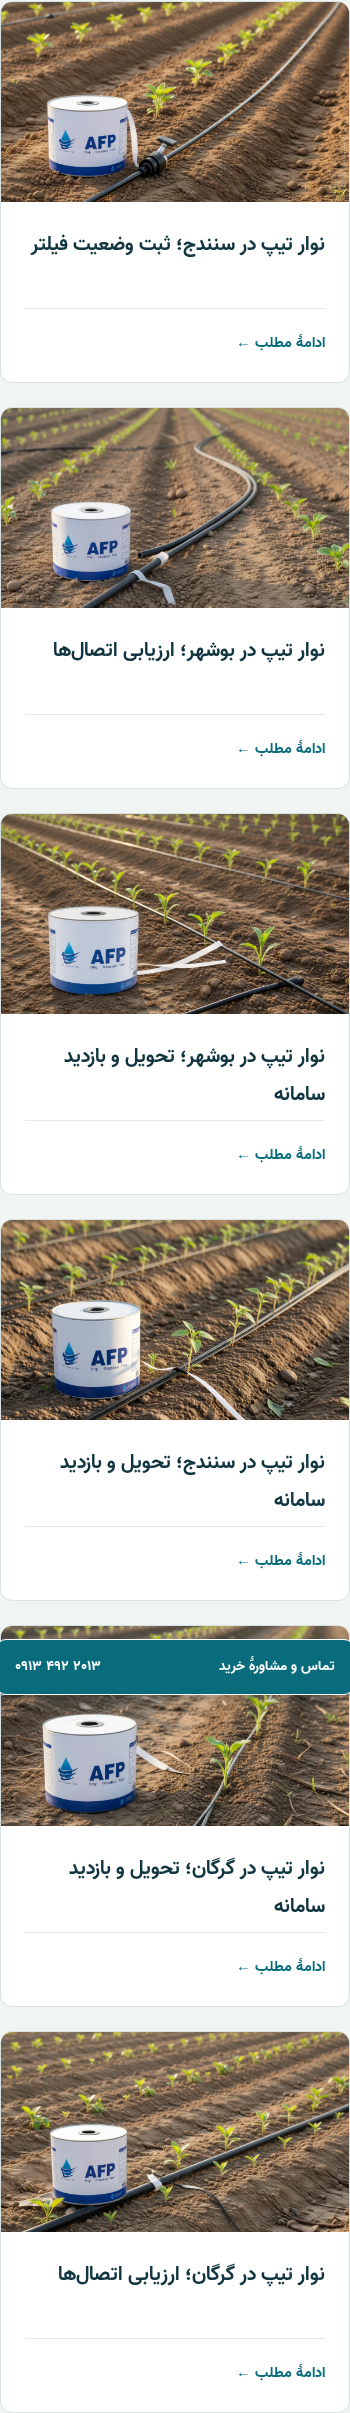
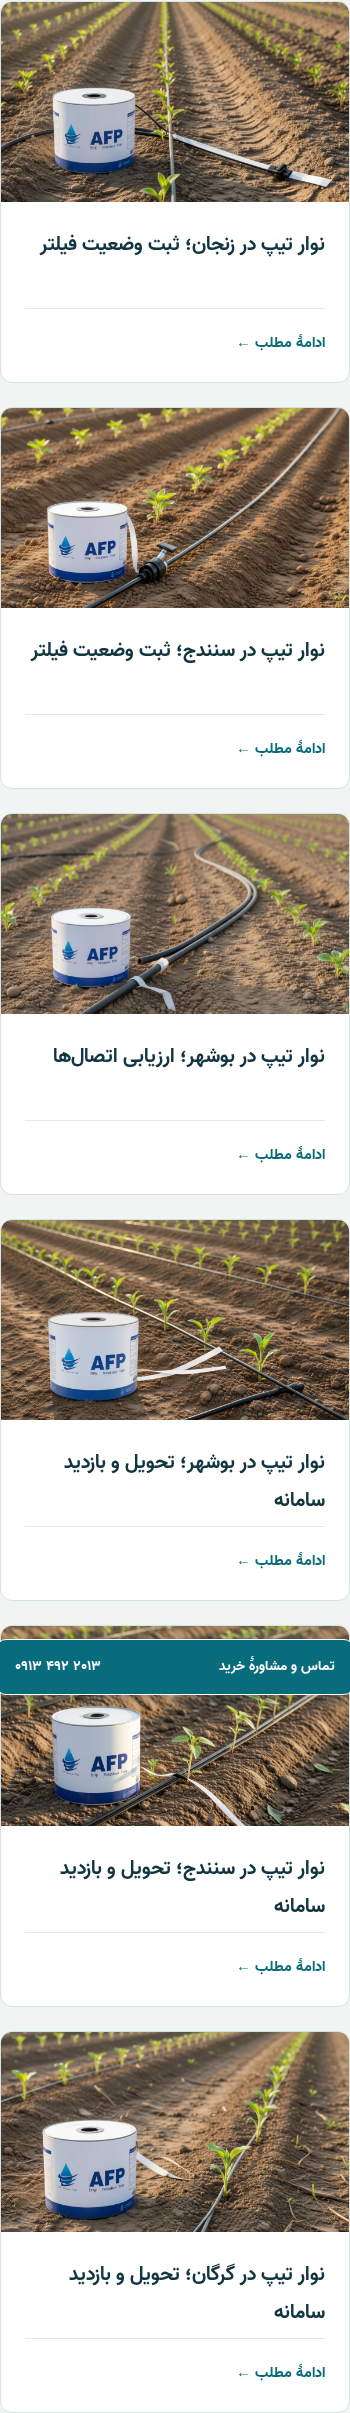
Checkpoint verified Blogsky native outcome [skip ci]

diff --git a/artifacts/blogsky-backlink-queue/home-card-images/before.html b/artifacts/blogsky-backlink-queue/home-card-images/before.html
@@ -27,12 +27,12 @@ body:has(#afp-home) .sidebar>.menu:has(>.head>a[href="/posts"]) a:focus-visible{
 @media(max-width:760px){body:has(#afp-home) .sidebar>.menu:has(>.head>a[href="/posts"])>ul{width:calc(100% - 40px)}#afp-home #guides{padding-top:40px}}
 @media(max-width:650px){body:has(#afp-home) .sidebar>.menu:has(>.head>a[href="/posts"])>ul{grid-template-columns:minmax(0,1fr)}#afp-home .afp-journal-heading{align-items:flex-start;flex-direction:column;gap:12px}}
 /*]]>*//* AFP_LIVE_CARD_IMAGES_START */
+body:has(#afp-home) .sidebar>.menu:has(>.head>a[href="/posts"])>ul>li>a[href="/1405/08/06/post-42/navaar-tip-dar-sanandaj-tasadig-vaziyat-e-filter"]::before{background-image:url("https://raw.githubusercontent.com/getsalet/nono/84841ba2c68beb1b2f5f51b834d69fff4185511a/assets/blog-generated/blogsky/9a10692049541bc48673e160fc9a54ff.webp");background-size:cover;background-position:center}
 body:has(#afp-home) .sidebar>.menu:has(>.head>a[href="/posts"])>ul>li>a[href="/1405/08/06/post-41/bushehr-tape-connection-evaluation"]::before{background-image:url("https://raw.githubusercontent.com/getsalet/nono/d1706fcaf109af8443d8d51408a4bbef43d050e5/assets/blog-generated/blogsky/9c01d9dc37cdebe19fc33973d6aed164.webp");background-size:cover;background-position:center}
 body:has(#afp-home) .sidebar>.menu:has(>.head>a[href="/posts"])>ul>li>a[href="/1405/08/06/post-40/nvar-tip-busher-tahvil-bazdid-samane"]::before{background-image:url("https://raw.githubusercontent.com/getsalet/nono/6597f3f5ee7f605b35fd1fec5b9faf7be2df3103/assets/blog-generated/blogsky/76164b1a4b78bc08260369ac6bca22b8.webp");background-size:cover;background-position:center}
 body:has(#afp-home) .sidebar>.menu:has(>.head>a[href="/posts"])>ul>li>a[href="/1405/08/06/post-39/tip-tape-sanandaj-delivery-inspection"]::before{background-image:url("https://raw.githubusercontent.com/getsalet/nono/769a0999ce8596975250f1bd0cef81a8ae191075/assets/blog-generated/blogsky/2e1d559fae64bd739f5456c57e3c8f56.webp");background-size:cover;background-position:center}
 body:has(#afp-home) .sidebar>.menu:has(>.head>a[href="/posts"])>ul>li>a[href="/1405/08/06/post-38/tip-tape-delivery-inspection-gorgan"]::before{background-image:url("https://raw.githubusercontent.com/getsalet/nono/0c3a69f4ee7b0c8d09cf55fe6a995278bdb202af/assets/blog-generated/blogsky/55debf6c4e1353abc682319f1c72db90.webp");background-size:cover;background-position:center}
 body:has(#afp-home) .sidebar>.menu:has(>.head>a[href="/posts"])>ul>li>a[href="/1405/08/06/post-37/navar-tip-dar-gorgan-arzabi-etalat-ha"]::before{background-image:url("https://raw.githubusercontent.com/getsalet/nono/91e7ea64b7b1b03619287f5c211a100f836f39e6/assets/blog-generated/blogsky/a63fa55df4b4595a589d1a3cf90d85c4.webp");background-size:cover;background-position:center}
-body:has(#afp-home) .sidebar>.menu:has(>.head>a[href="/posts"])>ul>li>a[href="/1405/08/06/post-36/barge-nezai-sanji-navar-tip-qazvin"]::before{background-image:url("https://raw.githubusercontent.com/getsalet/nono/8124a30d580cec3aade7f0d1839c6b081cd6eab5/assets/blog-generated/blogsky/6019ddad0e93c3d3b6bd4f63c961031d.webp");background-size:cover;background-position:center}
 /* AFP_LIVE_CARD_IMAGES_END */</style><div id="afp-home" lang="fa" dir="rtl">
 <div class="top"><div class="wrap"><span class="top-note">راهنمای کاربردی AFP · آبیاری و انتقال آب</span><a href="tel:+989134922013">مشاورهٔ انتخاب تجهیزات: ۰۹۱۳۴۹۲۲۰۱۳</a></div></div>
 <header><div class="wrap brandbar"><a class="brand" href="/"><img src="https://navar-abyari.ir/wp-content/uploads/نوار-تیپ-afp-drip-tape.png" alt="لوگوی AFP" width="52" height="52" /><span><strong>آبگستر فرا پارسیان</strong><small>انتخاب آگاهانه، آبیاری بهتر</small></span></a><a class="btn alt" href="https://navar-abyari.ir/shop/">فروشگاه AFP ←</a></div><div class="navline"><nav class="wrap" aria-label="فهرست اصلی"><a href="#products">تجهیزات آبیاری</a><a href="#guides">راهنماها و یادداشتها</a><a href="#faq">پرسشهای متداول</a><a href="#contact">تماس و مشاوره</a></nav></div></header>

diff --git a/artifacts/blogsky-backlink-queue/home-card-images/candidate.html b/artifacts/blogsky-backlink-queue/home-card-images/candidate.html
@@ -27,12 +27,12 @@ body:has(#afp-home) .sidebar>.menu:has(>.head>a[href="/posts"]) a:focus-visible{
 @media(max-width:760px){body:has(#afp-home) .sidebar>.menu:has(>.head>a[href="/posts"])>ul{width:calc(100% - 40px)}#afp-home #guides{padding-top:40px}}
 @media(max-width:650px){body:has(#afp-home) .sidebar>.menu:has(>.head>a[href="/posts"])>ul{grid-template-columns:minmax(0,1fr)}#afp-home .afp-journal-heading{align-items:flex-start;flex-direction:column;gap:12px}}
 /*]]>*//* AFP_LIVE_CARD_IMAGES_START */
+body:has(#afp-home) .sidebar>.menu:has(>.head>a[href="/posts"])>ul>li>a[href="/1405/08/06/post-43/navar-tip-zanjan-tasjihat-filter"]::before{background-image:url("https://raw.githubusercontent.com/getsalet/nono/00757acdd1b878ca505974a372b8eba267ec7bbb/assets/blog-generated/blogsky/d14a287de0438908b6fc435da94fdd49.webp");background-size:cover;background-position:center}
 body:has(#afp-home) .sidebar>.menu:has(>.head>a[href="/posts"])>ul>li>a[href="/1405/08/06/post-42/navaar-tip-dar-sanandaj-tasadig-vaziyat-e-filter"]::before{background-image:url("https://raw.githubusercontent.com/getsalet/nono/84841ba2c68beb1b2f5f51b834d69fff4185511a/assets/blog-generated/blogsky/9a10692049541bc48673e160fc9a54ff.webp");background-size:cover;background-position:center}
 body:has(#afp-home) .sidebar>.menu:has(>.head>a[href="/posts"])>ul>li>a[href="/1405/08/06/post-41/bushehr-tape-connection-evaluation"]::before{background-image:url("https://raw.githubusercontent.com/getsalet/nono/d1706fcaf109af8443d8d51408a4bbef43d050e5/assets/blog-generated/blogsky/9c01d9dc37cdebe19fc33973d6aed164.webp");background-size:cover;background-position:center}
 body:has(#afp-home) .sidebar>.menu:has(>.head>a[href="/posts"])>ul>li>a[href="/1405/08/06/post-40/nvar-tip-busher-tahvil-bazdid-samane"]::before{background-image:url("https://raw.githubusercontent.com/getsalet/nono/6597f3f5ee7f605b35fd1fec5b9faf7be2df3103/assets/blog-generated/blogsky/76164b1a4b78bc08260369ac6bca22b8.webp");background-size:cover;background-position:center}
 body:has(#afp-home) .sidebar>.menu:has(>.head>a[href="/posts"])>ul>li>a[href="/1405/08/06/post-39/tip-tape-sanandaj-delivery-inspection"]::before{background-image:url("https://raw.githubusercontent.com/getsalet/nono/769a0999ce8596975250f1bd0cef81a8ae191075/assets/blog-generated/blogsky/2e1d559fae64bd739f5456c57e3c8f56.webp");background-size:cover;background-position:center}
 body:has(#afp-home) .sidebar>.menu:has(>.head>a[href="/posts"])>ul>li>a[href="/1405/08/06/post-38/tip-tape-delivery-inspection-gorgan"]::before{background-image:url("https://raw.githubusercontent.com/getsalet/nono/0c3a69f4ee7b0c8d09cf55fe6a995278bdb202af/assets/blog-generated/blogsky/55debf6c4e1353abc682319f1c72db90.webp");background-size:cover;background-position:center}
-body:has(#afp-home) .sidebar>.menu:has(>.head>a[href="/posts"])>ul>li>a[href="/1405/08/06/post-37/navar-tip-dar-gorgan-arzabi-etalat-ha"]::before{background-image:url("https://raw.githubusercontent.com/getsalet/nono/91e7ea64b7b1b03619287f5c211a100f836f39e6/assets/blog-generated/blogsky/a63fa55df4b4595a589d1a3cf90d85c4.webp");background-size:cover;background-position:center}
 /* AFP_LIVE_CARD_IMAGES_END */</style><div id="afp-home" lang="fa" dir="rtl">
 <div class="top"><div class="wrap"><span class="top-note">راهنمای کاربردی AFP · آبیاری و انتقال آب</span><a href="tel:+989134922013">مشاورهٔ انتخاب تجهیزات: ۰۹۱۳۴۹۲۲۰۱۳</a></div></div>
 <header><div class="wrap brandbar"><a class="brand" href="/"><img src="https://navar-abyari.ir/wp-content/uploads/نوار-تیپ-afp-drip-tape.png" alt="لوگوی AFP" width="52" height="52" /><span><strong>آبگستر فرا پارسیان</strong><small>انتخاب آگاهانه، آبیاری بهتر</small></span></a><a class="btn alt" href="https://navar-abyari.ir/shop/">فروشگاه AFP ←</a></div><div class="navline"><nav class="wrap" aria-label="فهرست اصلی"><a href="#products">تجهیزات آبیاری</a><a href="#guides">راهنماها و یادداشتها</a><a href="#faq">پرسشهای متداول</a><a href="#contact">تماس و مشاوره</a></nav></div></header>

diff --git a/templates/blogsky/afp-home.html b/templates/blogsky/afp-home.html
@@ -27,12 +27,12 @@ body:has(#afp-home) .sidebar>.menu:has(>.head>a[href="/posts"]) a:focus-visible{
 @media(max-width:760px){body:has(#afp-home) .sidebar>.menu:has(>.head>a[href="/posts"])>ul{width:calc(100% - 40px)}#afp-home #guides{padding-top:40px}}
 @media(max-width:650px){body:has(#afp-home) .sidebar>.menu:has(>.head>a[href="/posts"])>ul{grid-template-columns:minmax(0,1fr)}#afp-home .afp-journal-heading{align-items:flex-start;flex-direction:column;gap:12px}}
 /* AFP_LIVE_CARD_IMAGES_START */
+body:has(#afp-home) .sidebar>.menu:has(>.head>a[href="/posts"])>ul>li>a[href="/1405/08/06/post-43/navar-tip-zanjan-tasjihat-filter"]::before{background-image:url("https://raw.githubusercontent.com/getsalet/nono/00757acdd1b878ca505974a372b8eba267ec7bbb/assets/blog-generated/blogsky/d14a287de0438908b6fc435da94fdd49.webp");background-size:cover;background-position:center}
 body:has(#afp-home) .sidebar>.menu:has(>.head>a[href="/posts"])>ul>li>a[href="/1405/08/06/post-42/navaar-tip-dar-sanandaj-tasadig-vaziyat-e-filter"]::before{background-image:url("https://raw.githubusercontent.com/getsalet/nono/84841ba2c68beb1b2f5f51b834d69fff4185511a/assets/blog-generated/blogsky/9a10692049541bc48673e160fc9a54ff.webp");background-size:cover;background-position:center}
 body:has(#afp-home) .sidebar>.menu:has(>.head>a[href="/posts"])>ul>li>a[href="/1405/08/06/post-41/bushehr-tape-connection-evaluation"]::before{background-image:url("https://raw.githubusercontent.com/getsalet/nono/d1706fcaf109af8443d8d51408a4bbef43d050e5/assets/blog-generated/blogsky/9c01d9dc37cdebe19fc33973d6aed164.webp");background-size:cover;background-position:center}
 body:has(#afp-home) .sidebar>.menu:has(>.head>a[href="/posts"])>ul>li>a[href="/1405/08/06/post-40/nvar-tip-busher-tahvil-bazdid-samane"]::before{background-image:url("https://raw.githubusercontent.com/getsalet/nono/6597f3f5ee7f605b35fd1fec5b9faf7be2df3103/assets/blog-generated/blogsky/76164b1a4b78bc08260369ac6bca22b8.webp");background-size:cover;background-position:center}
 body:has(#afp-home) .sidebar>.menu:has(>.head>a[href="/posts"])>ul>li>a[href="/1405/08/06/post-39/tip-tape-sanandaj-delivery-inspection"]::before{background-image:url("https://raw.githubusercontent.com/getsalet/nono/769a0999ce8596975250f1bd0cef81a8ae191075/assets/blog-generated/blogsky/2e1d559fae64bd739f5456c57e3c8f56.webp");background-size:cover;background-position:center}
 body:has(#afp-home) .sidebar>.menu:has(>.head>a[href="/posts"])>ul>li>a[href="/1405/08/06/post-38/tip-tape-delivery-inspection-gorgan"]::before{background-image:url("https://raw.githubusercontent.com/getsalet/nono/0c3a69f4ee7b0c8d09cf55fe6a995278bdb202af/assets/blog-generated/blogsky/55debf6c4e1353abc682319f1c72db90.webp");background-size:cover;background-position:center}
-body:has(#afp-home) .sidebar>.menu:has(>.head>a[href="/posts"])>ul>li>a[href="/1405/08/06/post-37/navar-tip-dar-gorgan-arzabi-etalat-ha"]::before{background-image:url("https://raw.githubusercontent.com/getsalet/nono/91e7ea64b7b1b03619287f5c211a100f836f39e6/assets/blog-generated/blogsky/a63fa55df4b4595a589d1a3cf90d85c4.webp");background-size:cover;background-position:center}
 /* AFP_LIVE_CARD_IMAGES_END */</style><div id="afp-home" lang="fa" dir="rtl">
 <div class="top"><div class="wrap"><span class="top-note">راهنمای کاربردی AFP · آبیاری و انتقال آب</span><a href="tel:+989134922013">مشاورهٔ انتخاب تجهیزات: ۰۹۱۳۴۹۲۲۰۱۳</a></div></div>
 <header><div class="wrap brandbar"><a class="brand" href="/"><img src="https://navar-abyari.ir/wp-content/uploads/نوار-تیپ-afp-drip-tape.png" alt="لوگوی AFP" width="52" height="52"><span><strong>آبگستر فرا پارسیان</strong><small>انتخاب آگاهانه، آبیاری بهتر</small></span></a><a class="btn alt" href="https://navar-abyari.ir/shop/">فروشگاه AFP ←</a></div><div class="navline"><nav class="wrap" aria-label="فهرست اصلی"><a href="#products">تجهیزات آبیاری</a><a href="#guides">راهنماها و یادداشتها</a><a href="#faq">پرسشهای متداول</a><a href="#contact">تماس و مشاوره</a></nav></div></header>
